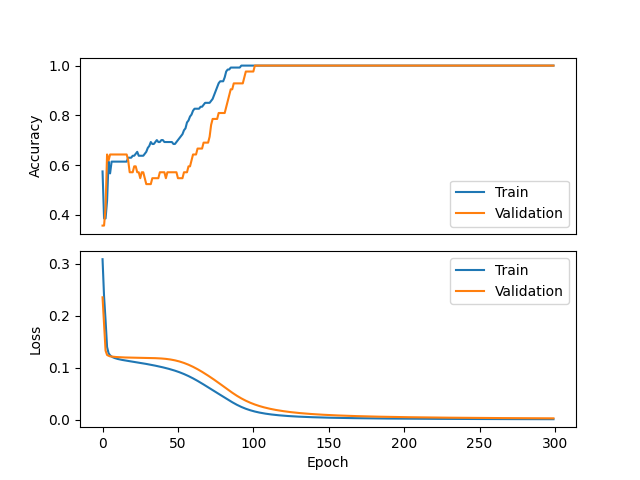
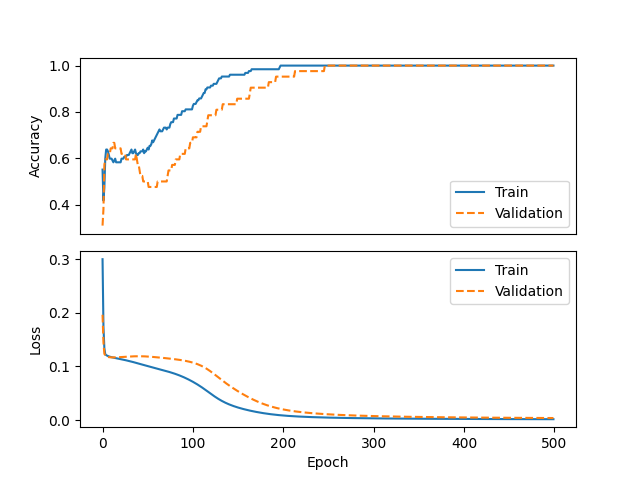
dashed plots, diff metric for regression, gs for monk2

diff --git a/scripts/utils/model.py b/scripts/utils/model.py
@@ -22,7 +22,7 @@ class Model:
     def _add_layer(self, layer):
         self.layers.append(layer)
 
-    def _compile(self, eta=0.01, loss_function='mse', _lambda=0, alpha=0, weight_matrix=None, bias_matrix=None):
+    def _compile(self, eta=0.01, loss_function='mse', _lambda=0, alpha=0, stopping_eta=0.02, weight_matrix=None, bias_matrix=None):
         for i in range(len(self.layers)):
             if weight_matrix is None and bias_matrix is None:
                 self.layers[i]._init_layer(None if i==0 else (self.layers[i-1].nodes,))
@@ -30,21 +30,12 @@ class Model:
                 self.layers[i]._init_layer(None if i==0 else (self.layers[i-1].nodes,), weigths=weight_matrix[i])
             else:
                 self.layers[i]._init_layer(None if i==0 else (self.layers[i-1].nodes,), weigths=weight_matrix[i], bias=bias_matrix[i])
-        self.stopping_eta = 0.02*eta # useful for several lr_decay schedulers
+        self.stopping_eta = stopping_eta*eta # useful for several lr_decay schedulers by stopping the decrease of eta at a ceratin percentage
         self.eta = eta
         self._lambda = _lambda
         self.alpha = alpha
         self.loss_function_name = loss_function
         self.loss_function = get_loss(loss_function)
-
-    def _apply_decay(self, epoch_decay):
-        # various other learning rate schedulers could be implemented
-        if self.decay_type == "exp":
-            self.eta = max(self.stopping_eta, self.eta/(1 + epoch_decay))
-        elif self.decay_type == "lin":
-            pass
-        elif self.decay_type == "step":
-            pass
 
     def _init_batch(self):
         self.batch_loss = 0
@@ -54,8 +45,17 @@ class Model:
             self.batch_deltas.append(np.zeros(layer.nodes))
             self.batch_weights_delta.append(np.zeros((layer.nodes, layer.input[0])))
     
+    def _apply_decay(self, epoch_decay):
+        # various other learning rate schedulers could be implemented
+        if self.decay_type == "exp":
+            self.eta = max(self.stopping_eta, self.eta/(1 + epoch_decay))
+        elif self.decay_type == "lin":
+            pass
+        elif self.decay_type == "step":
+            pass
+
     def _init_epoch(self, epoch_decay, inp, exp):
-        self.accuracy = 0
+        self.eval_metric = 0
         for layer in self.layers:
             layer.weight_delta_prev = np.zeros((layer.nodes, layer.input[0])) # for momentum
             layer.bias_delta_prev = np.zeros(layer.nodes) # for momentum
@@ -125,35 +125,29 @@ class Model:
         # print("Regularization: ",self._lambda*sum_squares)
         return self._lambda*sum_squares
 
-    def _compute_accuracy(self, output, expected, current_accuracy): 
-        for i in range(len(expected)):
-            if abs(output[i] - expected[i]) < 0.5:
-                current_accuracy += 1/len(expected)
-        return current_accuracy
-
-    def _infer(self, inputs, expected):
+    def _infer(self, inputs, expected, classification=True):
         # executed on the best version of myself
-        test_accuracy = 0
+        test_eval_metric = 0
         for i in range(len(inputs)):
             output = self.best_model._feed_forward(inputs[i])
-            test_accuracy = self._compute_accuracy(output, expected[i], test_accuracy)
-        return (test_accuracy/len(inputs), self.best_model.validation_accuracy, self.best_model.validation_loss)
+            test_eval_metric = self._compute_accuracy(output, expected[i], test_eval_metric) if classification else self._compute_euclidean_error(output, expected[i], test_eval_metric)
+        return (test_eval_metric/len(inputs), self.best_model.validation_eval_metric, self.best_model.validation_loss)
 
-    def _validation_validation_validation(self, inputs, expected):
-        self.validation_accuracy = 0
+    def _validation_validation_validation(self, inputs, expected, classification=True):
+        self.validation_eval_metric = 0
         self.validation_loss = 0
         for i in range(len(inputs)):
             output = self._feed_forward(inputs[i])
-            self.validation_accuracy = self._compute_accuracy(output, expected[i], self.validation_accuracy)
+            self.validation_eval_metric = self._compute_accuracy(output, expected[i], self.validation_eval_metric)  if classification else self._compute_euclidean_error(output, expected[i], self.validation_eval_metric)
             self.validation_loss += self.loss_function._compute_loss(output, expected[i], regression=0)/len(inputs)
-        self.validation_accuracy /= len(inputs)
+        self.validation_eval_metric /= len(inputs)
         if self.best_model is None:
             self.best_model = copy.deepcopy(self)
-        elif self.validation_accuracy >= self.best_model.validation_accuracy and self.validation_loss < self.best_model.validation_loss:
+        elif self.validation_eval_metric >= self.best_model.validation_eval_metric and self.validation_loss < self.best_model.validation_loss:
             del self.best_model
             self.best_model = copy.deepcopy(self)
 
-    def _train(self, train_inputs, train_expected, val_inputs, val_expected, batch_size=1, epoch=100, decay=1e-5, verbose=False):
+    def _train(self, train_inputs, train_expected, val_inputs, val_expected, batch_size=1, epoch=100, decay=1e-5, verbose=False, classification=True):
         train_stats = []
         assert(len(train_inputs) == len(train_expected) and len(val_inputs) == len(val_expected))
         for e in range(epoch):
@@ -169,20 +163,18 @@ class Model:
                     self.model_output = self._feed_forward(train_inputs[j]) # compute prediction
                     self.batch_loss += self.loss_function._compute_loss(self.model_output, train_expected[j], self._ridge_regression()) # calculate loss
                     self._back_propagation(train_expected[j], train_inputs[j]) # compute back-propagation
-                    self.accuracy = self._compute_accuracy(self.model_output, train_expected[j], self.accuracy) # TODO very stupid for regression
+                    self.eval_metric = self._compute_accuracy(self.model_output, train_expected[j], self.eval_metric) if classification else self._compute_euclidean_error(self.model_output, train_expected[j], self.eval_metric)
                     j += 1
                 self.batch_loss =  self.batch_loss / (j - i) # to avoid a bigger division on a smaller than batch size last subset of inputs
                 self._update_layers_deltas(j - i) # 20/12/2020 19:01
                 self._update_weights_bias() # update weights & bias
                 # print(f"{math.ceil(i / batch_size)} / {len(inputs) // batch_size} - Loss: {self.batch_loss}")
-            self.accuracy /= len(train_inputs)
+            self.eval_metric /= len(train_inputs)
             self._validation_validation_validation(val_inputs, val_expected)
-            # print("Epoch {:4d} - LR: {:.6f} - Train_Accuracy: {:.6f} - Train_Loss: {:.6f} - Validation_Accuracy: {:.6f} - Validation_Loss: {:.6f}"
-            #         .format(e, self.eta, self.accuracy, self.batch_loss, self.validation_accuracy, self.validation_loss)) 
-            train_stats.append((self.accuracy, self.validation_accuracy, self.batch_loss, self.validation_loss))
+            # print("Epoch {:4d} - LR: {:.6f} - Train_Eval_Metric: {:.6f} - Train_Loss: {:.6f} - Validation_Eval_Metric: {:.6f} - Validation_Loss: {:.6f}"
+            #         .format(e, self.eta, self.eval_metric, self.batch_loss, self.validation_eval_metric, self.validation_loss)) 
+            train_stats.append((self.eval_metric, self.validation_eval_metric, self.batch_loss, self.validation_loss))
             
-            # How do i become the best version of myself ?
-            # self = self.best_model
         #get smart
         return train_stats
 
@@ -192,3 +184,38 @@ class Model:
             result += str(layer) + "\n\t\t"
         result += "]\n\t"
         return result + f"eta: {self.eta}\n\tloss_function: {self.loss_function_name}\n\t_lambda: {self._lambda}\n\talpha: {self.alpha}\n\t)"
+
+
+# -------------------------------------------------------- METRICS FOR EVAL -------------------------------------------------------- #
+
+    def _compute_accuracy(self, output, expected, current_accuracy): 
+        """
+        Computation of Accuracy (for CLASSIFICATION evaluation)
+
+        Parameters:
+        expected (float list) : ground truth
+
+        output (float list) : output from model
+
+        current_accuracy (float) : accumulation of accuracy up to now (certain record in the epoch)
+        
+        """
+        for i in range(len(expected)):
+            if abs(output[i] - expected[i]) < 0.5:
+                current_accuracy += 1/len(expected)
+        return current_accuracy
+
+    def _compute_euclidean_error(self, output, expected, current_euclidean_error):
+        """
+        Computation of Euclidean Error (for REGRESSION evaluation)
+
+        Parameters:
+        expected (float list) : ground truth
+
+        output (float list) : output from model
+
+        current_euclidean_error (float) : accumulation of euclidean_error up to now (certain record in the epoch)
+        
+        """
+        assert(len(output) == len(expected))
+        return current_euclidean_error + np.sqrt(np.sum((np.array(expected) - np.array(output))**2)) # do we need / len(expected) ?? 

diff --git a/scripts/utils/plot.py b/scripts/utils/plot.py
@@ -10,35 +10,27 @@ class Plot:
             subplot_size = (1,len(stats))
         else:
             subplot_size = (int(len(stats) / max_graphs_per_row), max_graphs_per_row)
+
+        label = "Accuracy" if classification else "MEE"
             
         fig = plt.figure()
         fig.canvas.set_window_title(title)
         outer = gridspec.GridSpec(subplot_size[0], subplot_size[1], wspace=0.2, hspace=0.2)
         fig.tight_layout()
         for i in range(subplot_size[0]*subplot_size[1]):
-            x = 2 if classification else 1
 
-            inner = gridspec.GridSpecFromSubplotSpec(x, 1, subplot_spec=outer[i], wspace=0.1, hspace=0.1)
+            inner = gridspec.GridSpecFromSubplotSpec(2, 1, subplot_spec=outer[i], wspace=0.1, hspace=0.1)
 
             
-            for j in range(x):
-                if classification:
-                    ax = plt.Subplot(fig, inner[j])
-                    ax.set_xlabel("Epoch" if j == 1 else "")
-                    ax.set_ylabel("Accuracy" if j == 0 else "Loss")
-                    if j == 0:
-                        ax.set_xticks([])
-                    ax.plot(range(epochs[i]), [stat[2*j] for stat in stats[i]], label="Train")
-                    ax.plot(range(epochs[i]), [stat[2*j+1] for stat in stats[i]], label="Validation")
-                    ax.legend()
-                    fig.add_subplot(ax)
-                else:
-                    ax = plt.Subplot(fig, inner[j])
-                    ax.set_xlabel("Epoch")
-                    ax.set_ylabel("Loss")
-                    ax.plot(range(epochs[i]), [stat[2] for stat in stats[i]], label="Train") # train loss
-                    ax.plot(range(epochs[i]), [stat[3] for stat in stats[i]], label="Validation") # val loss
-                    ax.legend()
-                    fig.add_subplot(ax)
+            for j in range(2):
+                ax = plt.Subplot(fig, inner[j])
+                ax.set_xlabel("Epoch" if j == 1 else "")
+                ax.set_ylabel(label if j == 0 else "Loss")
+                if j == 0:
+                    ax.set_xticks([])
+                ax.plot(range(epochs[i]), [stat[2*j] for stat in stats[i]], label="Train")
+                ax.plot(range(epochs[i]), [stat[2*j+1] for stat in stats[i]], label="Validation", linestyle='dashed')
+                ax.legend()
+                fig.add_subplot(ax)
             
         plt.show(block=block)

diff --git a/scripts/monk2_model.py b/scripts/monk2_model.py
@@ -6,26 +6,28 @@ from utils.plot import Plot
 
 # ----------------------------------------- MAIN ----------------------------------------- #
 print("One day I will be a very smart Artificial Intelligence!")
+MONK_MODEL = 2
 
-train, validation, train_labels, validation_labels = dt._get_train_validation_data(2, split=0.25)
+train, validation, train_labels, validation_labels = dt._get_train_validation_data(MONK_MODEL, split=0.25)
 ohe_inp = [dt._get_one_hot_encoding(i) for i in train]
 ohe_val = [dt._get_one_hot_encoding(i) for i in validation]
 train_exp = [[elem] for elem in train_labels]
 validation_exp = [[elem] for elem in validation_labels]
-test, test_labels = dt._get_test_data(2)
+test, test_labels = dt._get_test_data(MONK_MODEL)
 ohe_test = [dt._get_one_hot_encoding(i) for i in test]
 test_exp = [[elem] for elem in test_labels]
 
 # create model
 model = Model()
-model._add_layer(Layer(8, "tanh", _input=(17,)))
+model._add_layer(Layer(4, "tanh", _input=(17,)))
 model._add_layer(Layer(4, "tanh"))
 model._add_layer(Layer(1, "tanh"))
-model._compile(0.009, "mse", alpha=0.9)
+model._compile(eta=0.009, loss_function="mse", alpha=0.85)
 epoch = 500
-stats = model._train(ohe_inp, train_exp, ohe_val, validation_exp, batch_size=len(ohe_inp), epoch=epoch)
+stats = model._train(ohe_inp, train_exp, ohe_val, validation_exp, decay=5e-6,batch_size=len(ohe_inp), epoch=epoch)
 
 # testing the model
 print("Test Accuracy: {:.6f}".format(model._infer(ohe_test, test_exp)[0]))
+
 
 Plot._plot_train_stats([stats], epochs=[epoch])

diff --git a/scripts/ml_cup_model.py b/scripts/ml_cup_model.py
@@ -18,10 +18,11 @@ model._add_layer(Layer(8, "leaky_relu"))
 model._add_layer(Layer(2, "linear"))
 model._compile(eta=0.0001, loss_function="mse", alpha=0.98, _lambda=1e-2)
 epoch = 50
-stats = model._train(train, train_labels, validation, validation_labels, decay=1e-6,batch_size=32, epoch=epoch, verbose=True)
+classification=False
+stats = model._train(train, train_labels, validation, validation_labels, decay=1e-6,batch_size=len(train), epoch=epoch, classification=classification, verbose=True)
 
 # testing the model
-print("Test Accuracy: {:.6f}".format(model._infer(test, test_labels)[0]))
+print("Test Accuracy: {:.6f}".format(model._infer(test, test_labels, classification=classification)[0]))
 
 
-Plot._plot_train_stats([stats], epochs=[epoch], classification = False)
+Plot._plot_train_stats([stats], epochs=[epoch], classification = classification)

diff --git a/scripts/monk1_model.py b/scripts/monk1_model.py
@@ -18,11 +18,11 @@ test_exp = [[elem] for elem in test_labels]
 
 # create model
 model = Model()
-model._add_layer(Layer(3, "leaky_relu", _input=(17,)))
+model._add_layer(Layer(3, "tanh", _input=(17,)))
 model._add_layer(Layer(1, "tanh"))
-model._compile(eta=0.005, loss_function="mse", alpha=0.9)
+model._compile(eta=0.009, loss_function="mse", alpha=0.98)
 epoch = 1000
-stats = model._train(ohe_inp, train_exp, ohe_val, validation_exp, decay=1e-6, batch_size=len(ohe_inp), epoch=epoch)
+stats = model._train(ohe_inp, train_exp, ohe_val, validation_exp, decay=2e-6, batch_size=len(ohe_inp), epoch=epoch)
 
 # testing the model
 print("Test Accuracy: {:.6f}".format(model._infer(ohe_test, test_exp)[0]))

diff --git a/scripts/utils/loss.py b/scripts/utils/loss.py
@@ -21,7 +21,8 @@ class Mse:
 
     def _compute_loss_prime(self, actual, expected): # even if multiple output this will receive one comparison at a time (look ad model.py)
         return expected - actual
-    
+
+
 class CrossEntropy:
     #----------------------------------------------------- FOR CLASSIFICATION -----------------------------------------------------#
 

diff --git a/scripts/utils/layer.py b/scripts/utils/layer.py
@@ -3,7 +3,7 @@ from .activation_function import AF
 
 class Layer:
 
-    def __init__(self, nodes, activation_function_type, bias_range=(0, 0), weights_range=(-0.69,0.69), _input=None):
+    def __init__(self, nodes, activation_function_type, bias_range=(0, 0), weights_range=(-0.3,0.3), _input=None):
         """
         Contructor of Layer class
 
